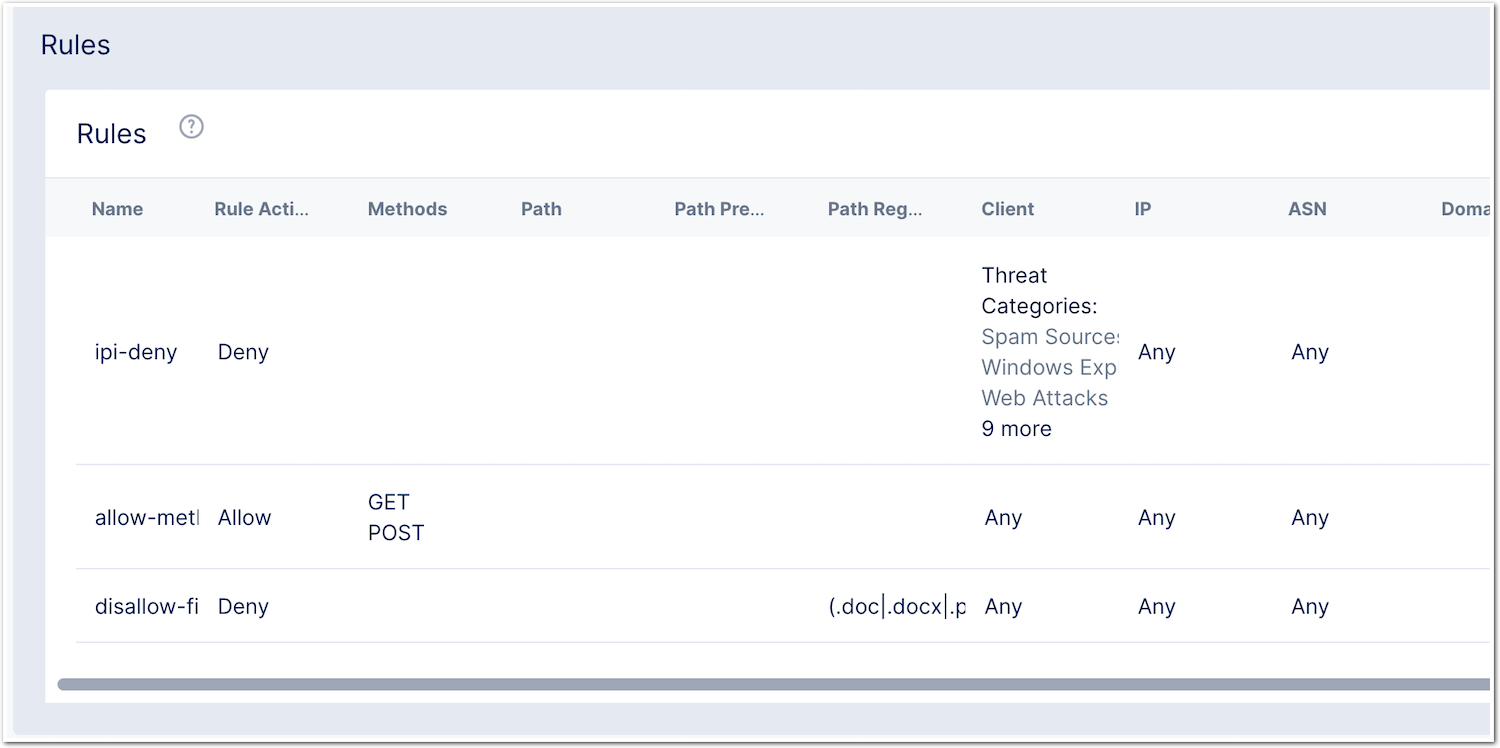
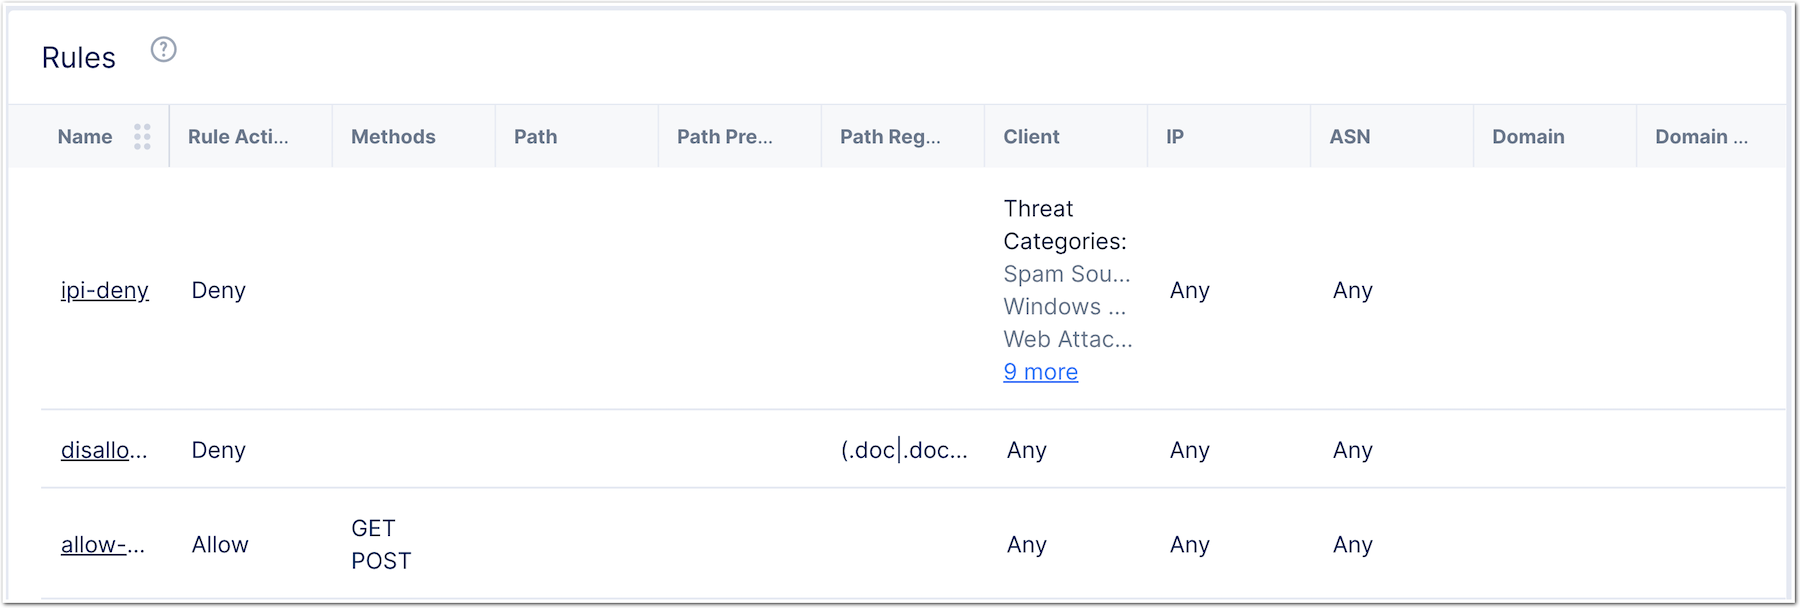
fix sp

diff --git a/docs/class2/module1/lab2/lab2.rst b/docs/class2/module1/lab2/lab2.rst
@@ -7,21 +7,6 @@ In this lab, we will create 3 more rules:
 * Disallow some file types (exe, bat ...)
 * Geoloc - disallow some countries
 
-Allow HTTP Methods
-******************
-
-* In the same Service Policy created in previous lab, create a new rule
-* Name it as you want ``method-allow``
-* In action, set ``Allow``
-* In Request Match, Configure ``HTTP Method``
-* Add ``GET`` and ``POST``
-* Save your rule.
-* You should see now 2 rules
-
-  * IP-Reputation rule
-  * Methods allowed rule
-
-|
 
 Disallow file types
 *******************
@@ -38,11 +23,6 @@ Disallow file types
 
 .. note:: This will disallow doc, docx, pdf, exe and bat file types.
 
-.. note:: You should have 3 rules in your Service Policy
-
-  .. image:: ../pictures/lab2/all-rules.png
-     :align: center
-
 |
 
 Geoloc - disallow countries
@@ -57,6 +37,29 @@ Geoloc - disallow countries
   .. image:: ../pictures/lab2/geo.png
      :align: center
      :scale: 50%
+
+|
+
+Allow HTTP Methods
+******************
+
+* In the same Service Policy created in previous lab, create a new rule
+* Name it as you want ``method-allow``
+* In action, set ``Allow``
+* In Request Match, Configure ``HTTP Method``
+* Add ``GET`` and ``POST``
+* Save your rule.
+* You should see now 2 rules
+
+  * IP-Reputation rule
+  * Methods allowed rule
+
+|
+
+.. note:: You should have 3 rules in your Service Policy. Check the order.
+
+  .. image:: ../pictures/lab2/all-rules.png
+     :align: center
 
 |
 
